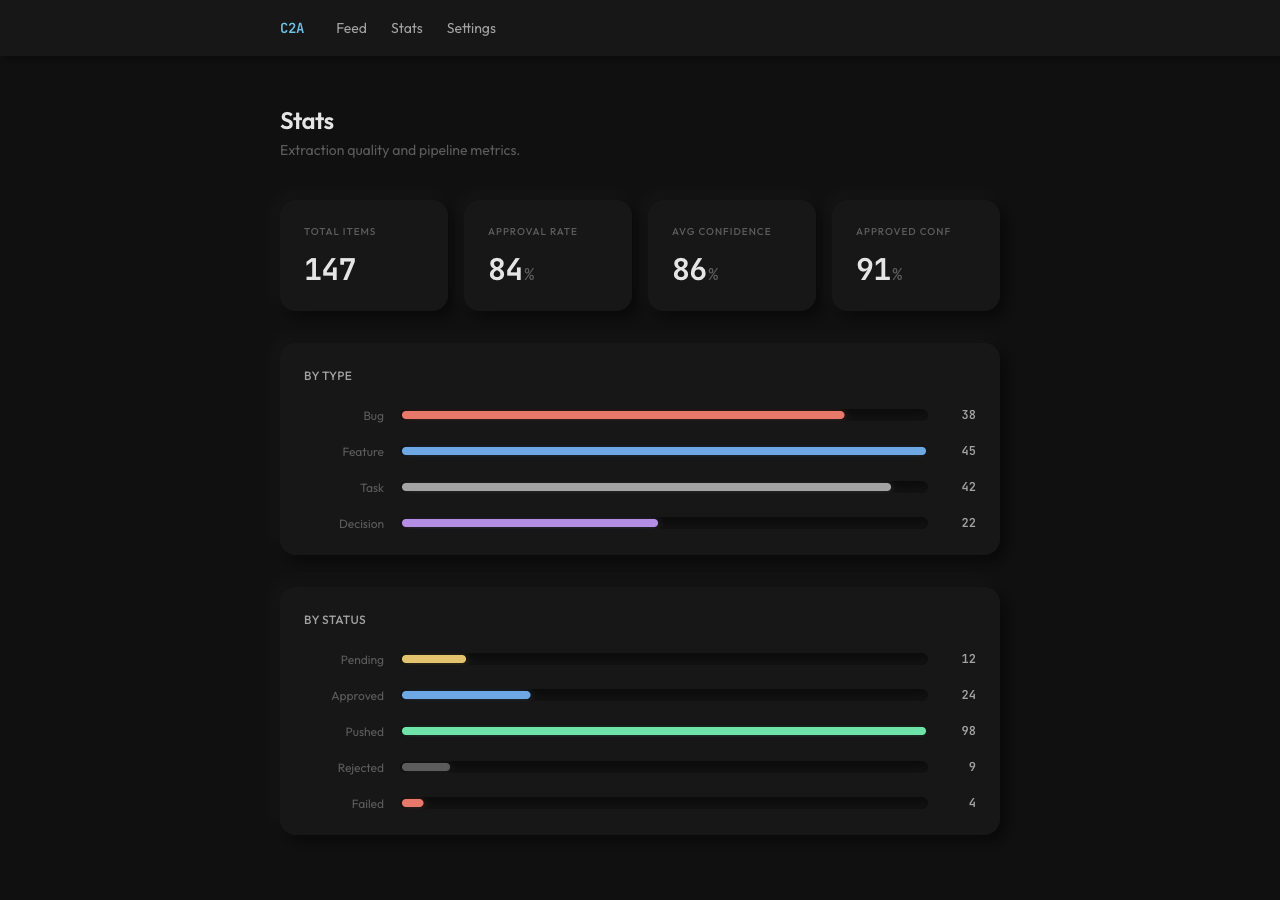
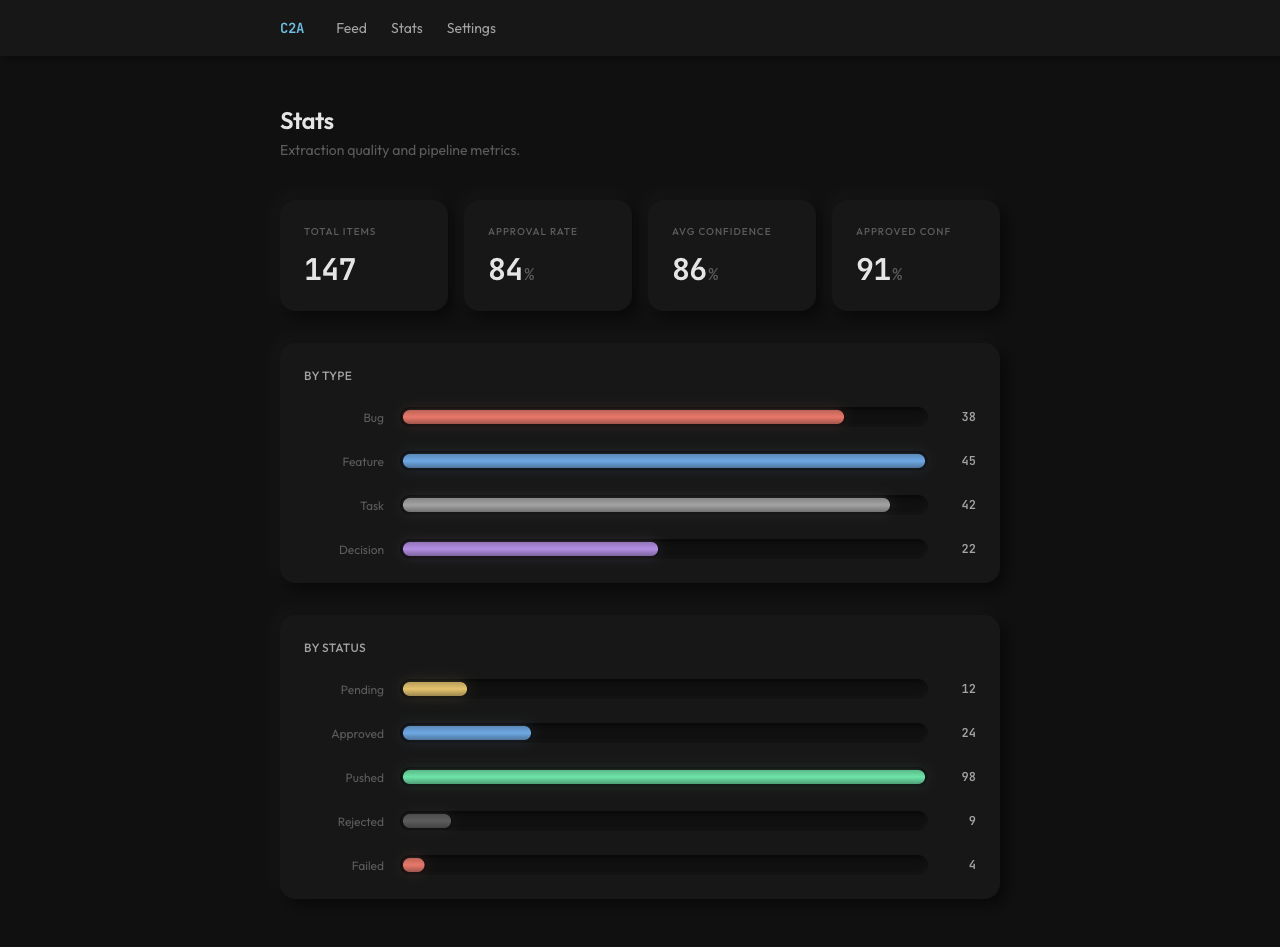
ui: neumorphic progress bars with gradient, raised fill and deeper inset track
Bars now have vertical gradient (lighter top, darker bottom) giving
3D raised appearance. Track uses deeper inset shadow with padding.
Fill bars cast subtle color glow. More spacing between rows.

diff --git a/src/components/StatsCharts.tsx b/src/components/StatsCharts.tsx
@@ -42,23 +42,29 @@ function BarChart({ title, data, colors }: BarChartProps) {
   return (
     <div className="rounded-2xl bg-surface-1 p-6 shadow-[var(--shadow-neu-raised)]">
       <p className="text-xs font-medium text-text-secondary uppercase tracking-wide mb-6">{title}</p>
-      <div className="flex flex-col gap-5">
-        {Object.entries(data).map(([key, value]) => (
-          <div key={key} className="flex items-center gap-4">
-            <span className="w-20 text-xs text-text-muted capitalize text-right shrink-0">{key}</span>
-            <div className="flex-1 rounded-full h-3 overflow-hidden bg-surface-0 shadow-[var(--shadow-neu-inset)] p-[2px]">
+      <div className="flex flex-col gap-6">
+        {Object.entries(data).map(([key, value]) => {
+          const color = colors[key] ?? '#5c5c5c';
+          return (
+            <div key={key} className="flex items-center gap-4">
+              <span className="w-20 text-xs text-text-muted capitalize text-right shrink-0">{key}</span>
               <div
-                className="h-full rounded-full transition-all duration-700"
-                style={{
-                  width: `${(value / max) * 100}%`,
-                  backgroundColor: colors[key] ?? '#5c5c5c',
-                  boxShadow: `0 0 8px ${colors[key] ?? '#5c5c5c'}40`,
-                }}
-              />
+                className="flex-1 rounded-full h-5 bg-surface-0 p-[3px]"
+                style={{ boxShadow: 'inset 3px 3px 6px rgba(0,0,0,0.5), inset -2px -2px 4px rgba(255,255,255,0.02)' }}
+              >
+                <div
+                  className="h-full rounded-full transition-all duration-700"
+                  style={{
+                    width: `${Math.max((value / max) * 100, 4)}%`,
+                    background: `linear-gradient(180deg, ${color}cc 0%, ${color} 50%, ${color}aa 100%)`,
+                    boxShadow: `1px 1px 3px rgba(0,0,0,0.4), -1px -1px 2px rgba(255,255,255,0.06), 0 0 12px ${color}30`,
+                  }}
+                />
+              </div>
+              <span className="w-8 text-xs font-mono font-semibold text-text-secondary text-right shrink-0 tabular-nums">{value}</span>
             </div>
-            <span className="w-8 text-xs font-mono font-semibold text-text-secondary text-right shrink-0 tabular-nums">{value}</span>
-          </div>
-        ))}
+          );
+        })}
       </div>
     </div>
   );
